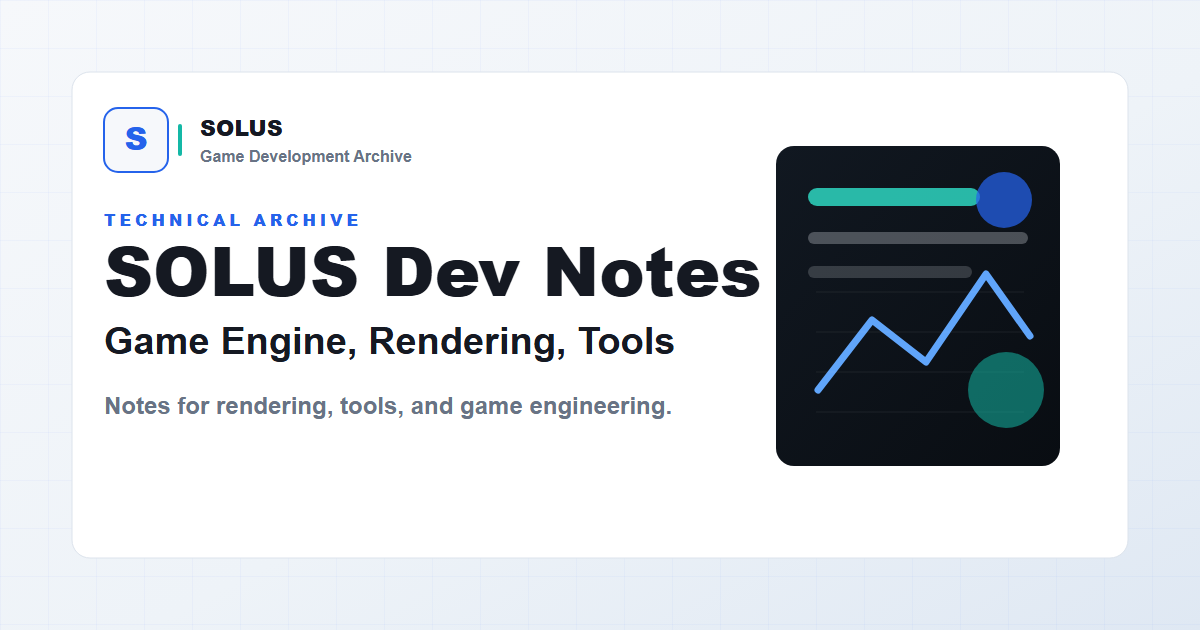
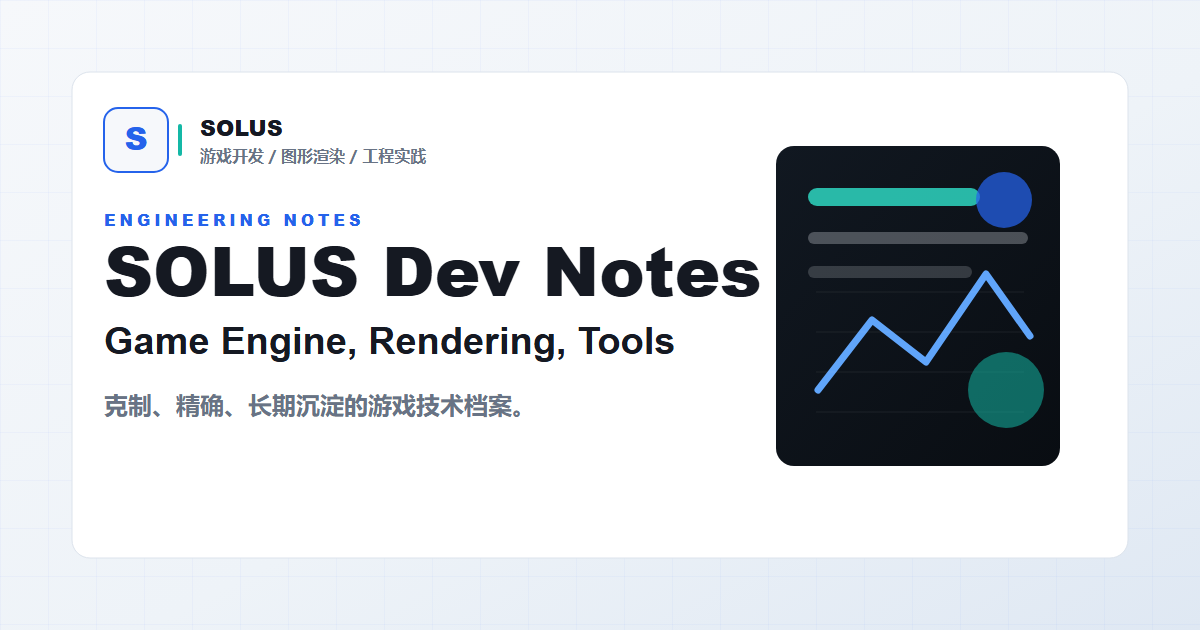
Refresh social sharing image

Changed region(s): [[0.0617, 0.6032, 0.555, 0.6635], [0.1542, 0.2111, 0.37, 0.2714], [0.0925, 0.3317, 0.3083, 0.3619]]

diff --git a/scripts/lint.js b/scripts/lint.js
@@ -58,6 +58,7 @@ const [
   headers,
   packageConfig,
   wranglerConfig,
+  socialImageSvg,
   socialImageStats,
   readme,
   blogOperationsDocs,
@@ -80,6 +81,7 @@ const [
   readFile(path.join(root, "public/_headers"), "utf8"),
   readFile(path.join(root, "package.json"), "utf8").then(JSON.parse),
   readFile(path.join(root, "wrangler.toml"), "utf8"),
+  readFile(path.join(root, "assets/og/solus-og.svg"), "utf8"),
   stat(path.join(root, "assets/og/solus-og.png")),
   readFile(path.join(root, "README.md"), "utf8"),
   readFile(path.join(root, "docs/blog-operations.md"), "utf8"),
@@ -449,6 +451,12 @@ if (/Recommended|Latest Posts|Technical Archive/.test(buildScript) || site.hero?
 }
 if (site.tagline === "Game Development Archive" || readme.includes("My Game Dev Blog")) {
   failures.push("Project identity must not keep initial template naming.");
+}
+if (/Game Development Archive|Technical Archive/i.test(socialImageSvg)) {
+  failures.push("Open Graph source image must not keep template archive wording.");
+}
+if (!socialImageSvg.includes("SOLUS Dev Notes") || !socialImageSvg.includes("游戏开发 / 图形渲染 / 工程实践")) {
+  failures.push("Open Graph source image must carry the current SOLUS technical archive identity.");
 }
 if (buildScript.includes("SOLUS ARCHIVE") || buildScript.includes('placeholder="搜索文章、标签"')) {
   failures.push("Visible generated surfaces must use current SOLUS wording.");